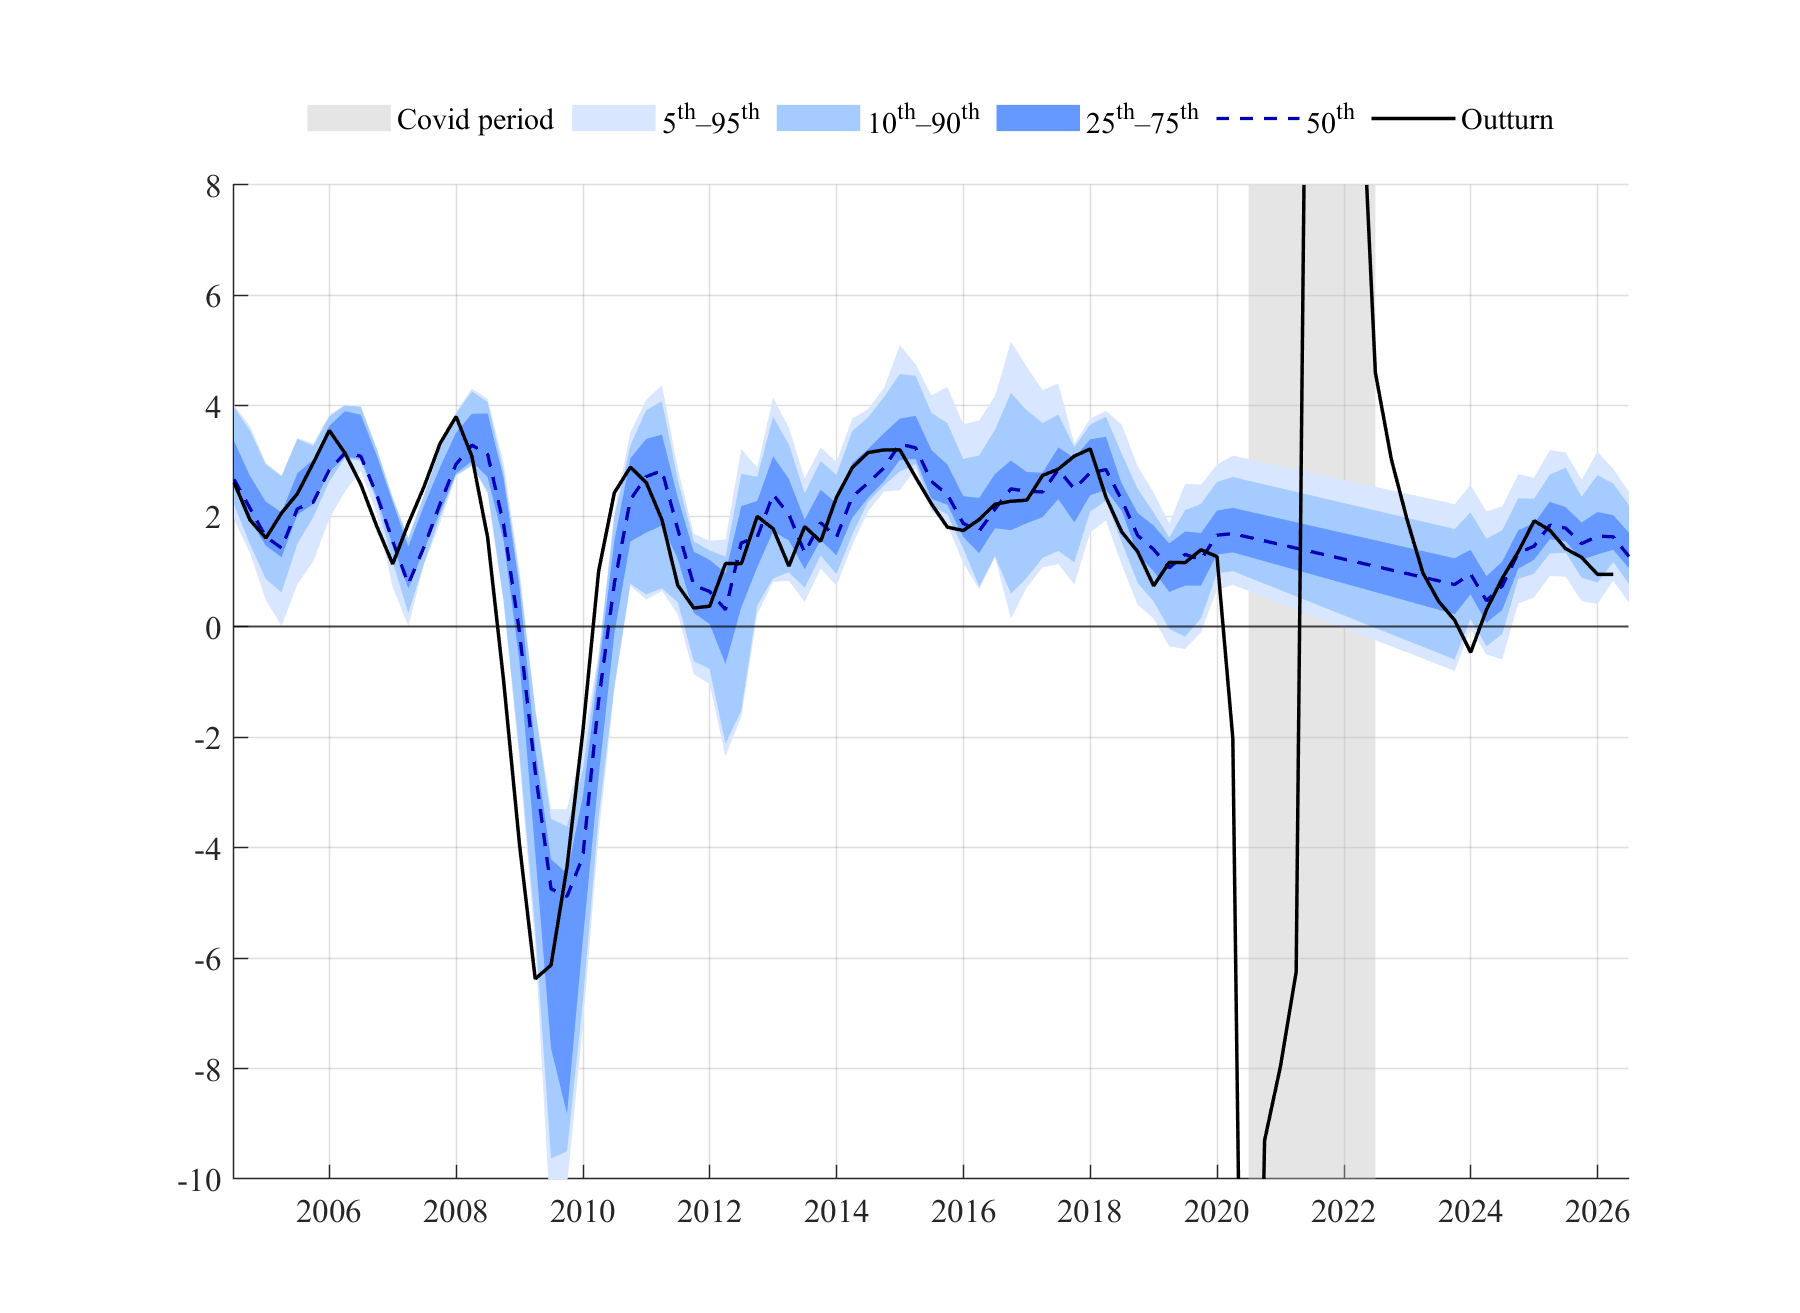
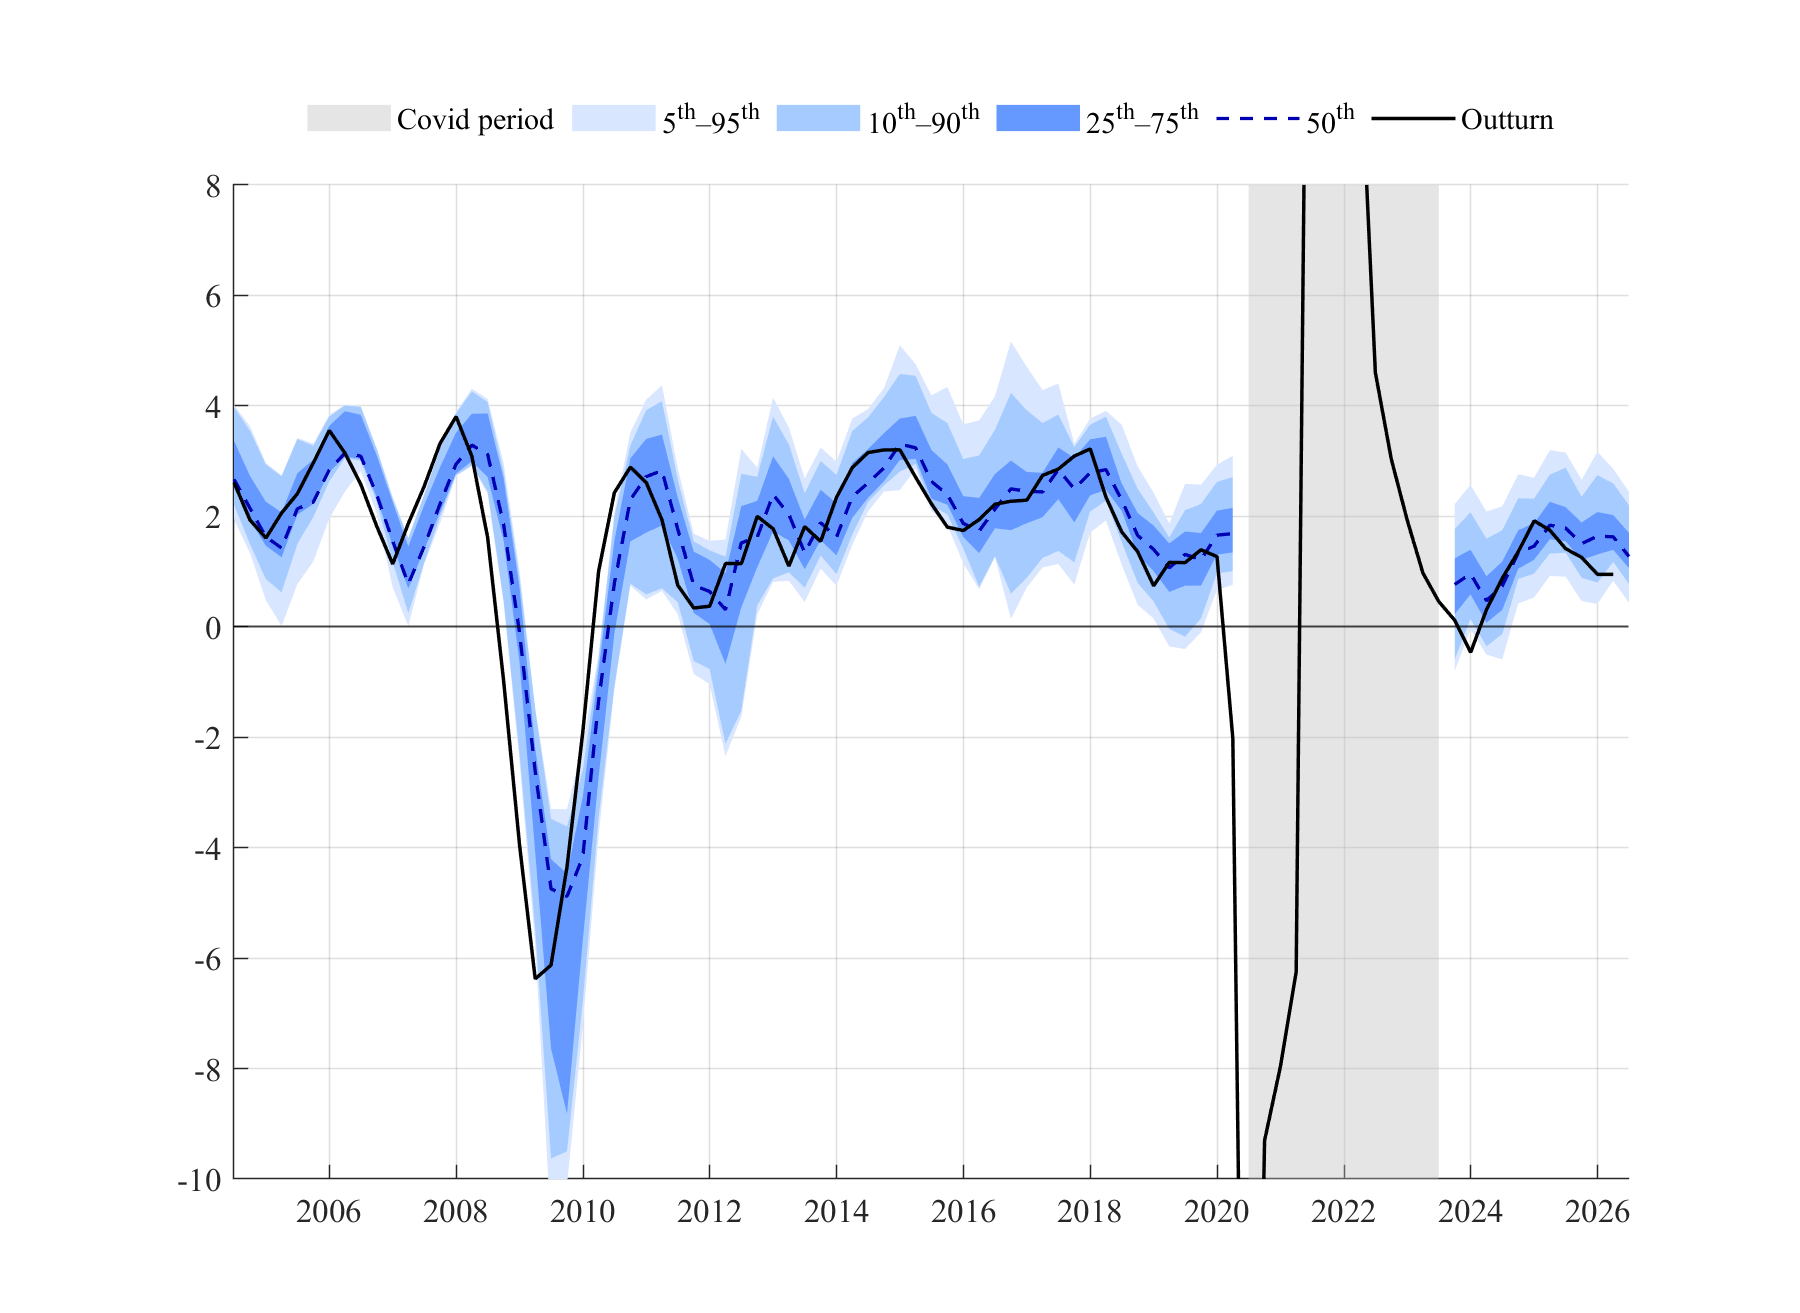
GDP at risk cosmetic predicted densities

Changed region(s): [[0.6844, 0.1249, 0.8089, 0.9056]]

diff --git a/IaR_GaR_April_2026/MAIN_gdp.m b/IaR_GaR_April_2026/MAIN_gdp.m
@@ -792,24 +792,49 @@ qt_idx = arrayfun(@(q) find(abs(cfg.quantiles-q)<1e-8,1), ...
 covid_start_dt = datetime(cfg.covidStart, 'ConvertFrom','datenum');
 covid_end_dt   = datetime(cfg.covidEnd,   'ConvertFrom','datenum');
 
+% Extend Covid exclusion through the lag/base-effect buffer
+covid_end_ext_dt = covid_end_dt + calquarters(cfg.covidLagBuffer);
+
 for h_plot = cfg.hPlot
 
     tgt_dates = quarters_origin + calquarters(h_plot - 1);
 
     Q = squeeze(pred_q(:, qt_idx, h_plot));
 
+    covid_plot_start = covid_start_dt   + calquarters(h_plot-1);
+    covid_plot_end   = covid_end_ext_dt + calquarters(h_plot-1);
+
     valid  = ~all(isnan(Q), 2);
-    Q_v    = Q(valid, :);
-    tgt_v  = tgt_dates(valid);
+    %Q_v    = Q(valid, :);
+    %tgt_v  = tgt_dates(valid);
 
     fig = figure('Units','normalized','Position',[0.2 0.15 0.6 0.7],'Color','w');
     ax  = gca; hold(ax,'on');
 
-    plotFanBands(ax, tgt_v, Q_v);
-    plot(ax, tgt_v, Q_v(:,4), '--', 'Color',[0 0 0.7], 'LineWidth',1.2, ...
+    % Identify the two valid forecast blocks
+    pre_mask  = tgt_dates < covid_plot_start;
+    post_mask = tgt_dates > covid_plot_end;
+
+    % Pre-Covid fan bands: keep legend entries
+    plotFanBands(ax, tgt_dates(pre_mask), Q(pre_mask,:));
+    
+    % Post-Covid fan bands: hide duplicate legend entries
+    old_children = ax.Children;
+    plotFanBands(ax, tgt_dates(post_mask), Q(post_mask,:));
+    
+    new_children = setdiff(ax.Children, old_children);
+    set(new_children, 'HandleVisibility', 'off');
+
+    % Median: NaNs naturally break the line over the excluded period
+    plot(ax, tgt_dates, Q(:,4), '--', ...
+         'Color',[0 0 0.7], 'LineWidth',1.2, ...
          'DisplayName','50^{th}');
 
-    oos_mask = actualDT >= tgt_v(1);
+    first_valid = find(valid,1,'first');
+    last_valid  = find(valid,1,'last');
+    
+    oos_mask = actualDT >= tgt_dates(first_valid);
+
     if h_plot <= 2
         plot(ax, actualDT(oos_mask), actual_var(oos_mask), ...
              'k', 'LineWidth',1.25, 'DisplayName','Outturn');
@@ -817,8 +842,9 @@ for h_plot = cfg.hPlot
 
     % Set xlim explicitly to the valid data range before computing ticks,
     % so tick labels are always in chronological order.
-    xl_lo = tgt_v(1);
-    xl_hi = max(tgt_v(end), actualDT(end) + calquarters(h_plot - 1));
+    xl_lo = tgt_dates(first_valid);
+    xl_hi = max(tgt_dates(last_valid), ...
+                actualDT(end) + calquarters(h_plot - 1));
     xlim(ax, [xl_lo, xl_hi]);
 
     % Generate ticks inside the visible range only (avoids out-of-order labels)
@@ -831,13 +857,16 @@ for h_plot = cfg.hPlot
     grid(ax, 'on');
 
     yl = [-10, 8];
+
     covid_rect = fill(ax, ...
-        [covid_start_dt+calquarters(h_plot-1), covid_end_dt+calquarters(h_plot-1), ...
-         covid_end_dt+calquarters(h_plot-1),   covid_start_dt+calquarters(h_plot-1)], ...
+        [covid_plot_start, covid_plot_end, ...
+         covid_plot_end,   covid_plot_start], ...
         [yl(1), yl(1), yl(2), yl(2)], ...
-        [0.75 0.75 0.75], 'EdgeColor','none', 'FaceAlpha',0.4, ...
+        [0.75 0.75 0.75], ...
+        'EdgeColor','none', ...
+        'FaceAlpha',0.4, ...
         'DisplayName','Covid period');
-    uistack(covid_rect, 'bottom');
+    uistack(covid_rect,'bottom');    
     ylim(ax, yl);
 
     legend(ax,'show','Location','northoutside','Orientation','horizontal');
